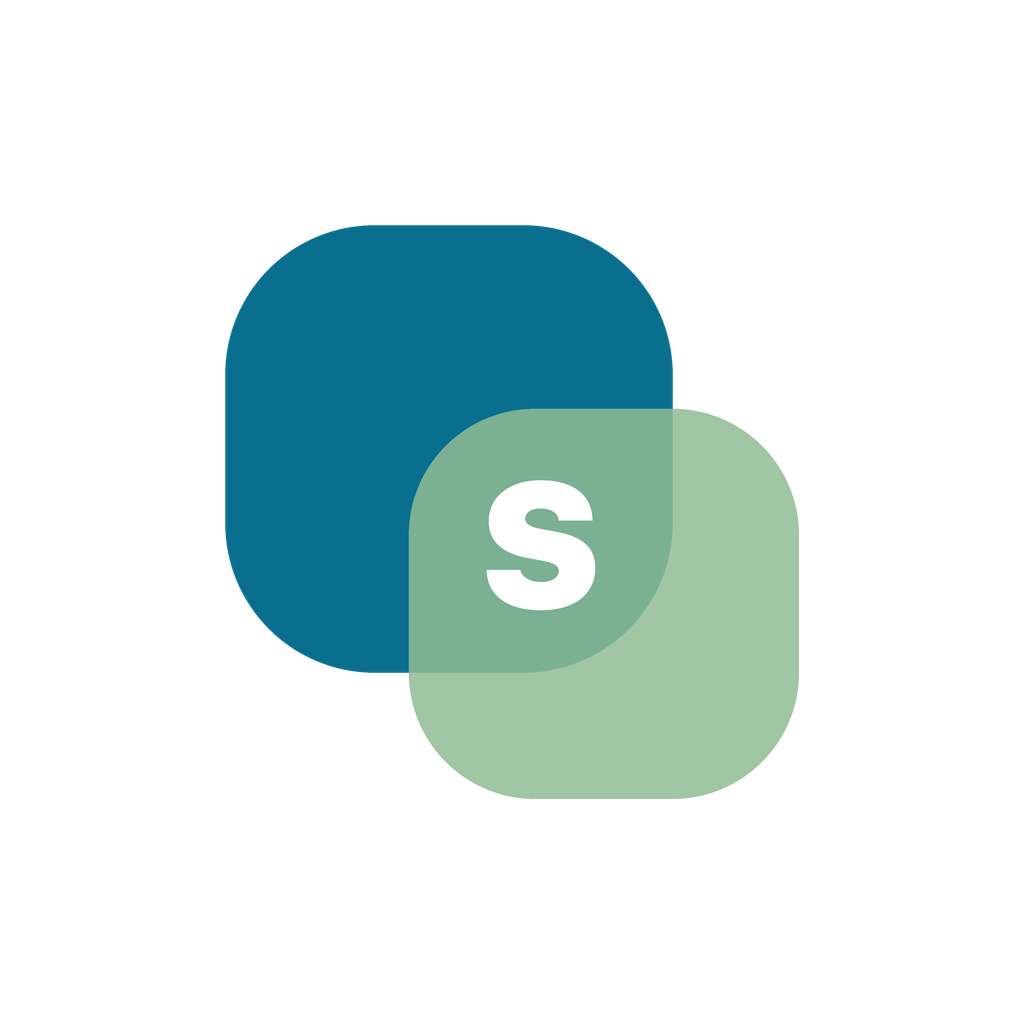
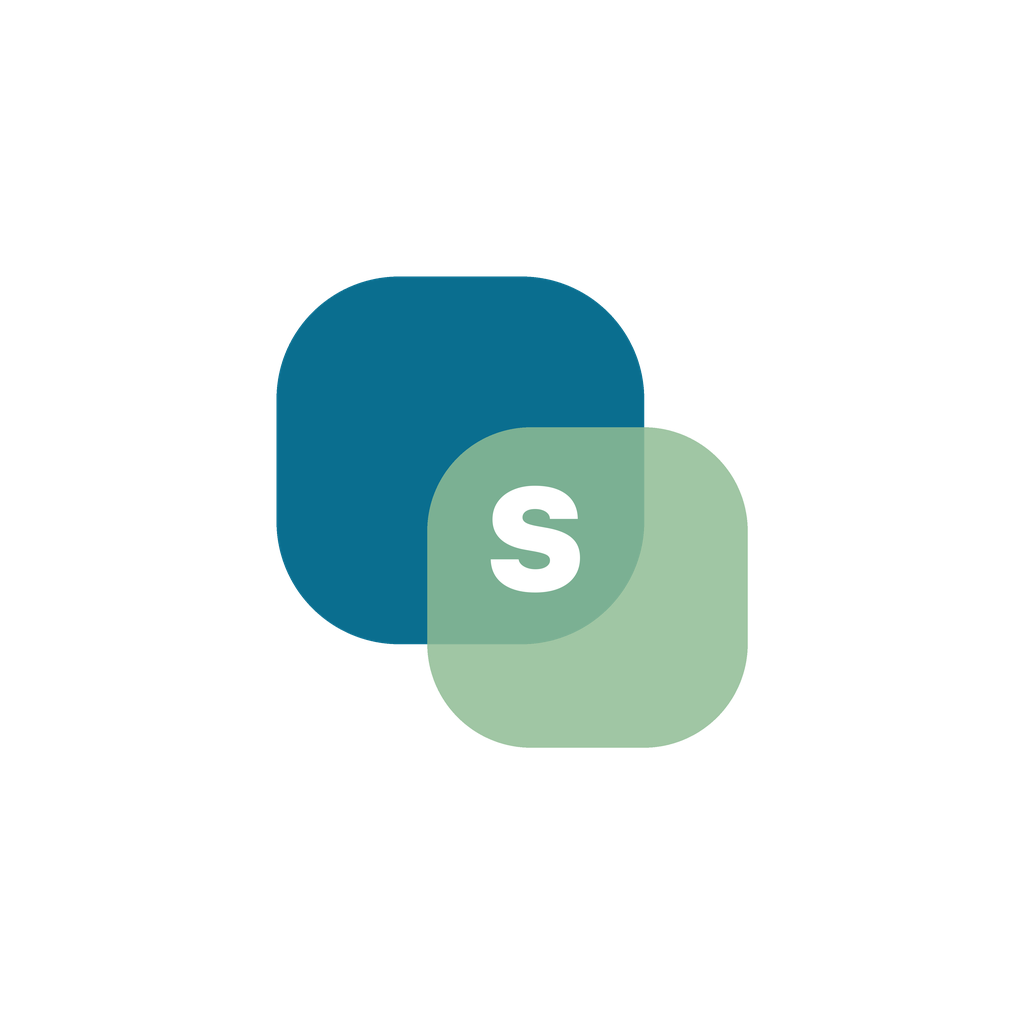
fix: los íconos nativos seguían siendo los del template
El PO rebuildeaba y veía los viejos. No era el build: `ios/` y `android/` ya
existían desde el 17 y el 20 de agosto, y Expo NO regenera los íconos nativos
si la carpeta está creada. Los assets nuevos estaban en assets/images y nunca
llegaban a `mipmap-*` ni al `AppIcon.appiconset`. Resuelto con `expo prebuild`
en las dos plataformas.

Corregido además el ícono adaptativo de Android, que estaba mal dimensionado:
el launcher recorta con la forma que quiera y sólo garantiza un CÍRCULO del 66%
del lienzo. Lo que tiene que entrar en ese círculo no es el lado de la marca
sino su DIAGONAL — al 56% la diagonal daba 79% y la máscara circular le comía
las esquinas a los dos cuadrados. Ahora va al 46% (46 × 1,414 ≈ 65%), y se
verificó simulando las tres máscaras (círculo, squircle, cuadrado).

Changed region(s): [[0.2188, 0.2188, 0.7812, 0.7812]]

diff --git a/scripts/generar-iconos.py b/scripts/generar-iconos.py
@@ -18,10 +18,13 @@ Salidas en assets/images/ (todas 1024 salvo el favicon):
   icon.png                     iOS + general. Opaco y a sangre: iOS aplica su
                                propia máscara, así que NO lleva esquinas
                                redondeadas ni transparencia propias.
-  android-icon-foreground.png  Capa de frente del ícono adaptativo. La marca
-                               ocupa el 60% del lienzo porque Android recorta
-                               con formas distintas según el launcher y sólo el
-                               centro (~66%) está garantizado.
+  android-icon-foreground.png  Capa de frente del ícono adaptativo. Android
+                               recorta con la forma que quiera el launcher y
+                               sólo garantiza un CÍRCULO del 66% del lienzo. La
+                               marca es cuadrada, así que lo que tiene que
+                               entrar en ese círculo es su DIAGONAL: un cuadrado
+                               del 56% tiene diagonal 79% y se le comen las
+                               esquinas. Por eso va al 46% (46 × 1,414 ≈ 65%).
   android-icon-background.png  Capa de fondo, color plano.
   android-icon-monochrome.png  Silueta para los íconos temáticos de Android 13+.
   splash-icon.png              Marca sola sobre transparente.
@@ -57,6 +60,10 @@ CENTRO_S = (0.32 + CUADRADO_A) / 2   # = 0.55
 FONDO = (230, 244, 254, 255)        # #E6F4FE
 
 SUPERMUESTREO = 4                   # se dibuja a 4× y se baja: bordes limpios
+
+# Lado de la marca en el ícono adaptativo de Android, sobre el lienzo. Sale de
+# la zona segura circular del 66%: 0.46 × √2 ≈ 0.65, entra justo.
+ADAPTATIVO = 0.46
 
 
 def fuente(px: int) -> ImageFont.FreeTypeFont:
@@ -128,14 +135,14 @@ def main() -> None:
     base = Image.new("RGBA", (1024, 1024), FONDO)
     guardar(Image.alpha_composite(base, dibujar_marca(1024, 1024 * 0.60)), "icon.png")
 
-    # Android adaptativo: el frente va sobre transparente y más chico, porque
-    # el launcher recorta con la forma que quiera.
-    guardar(dibujar_marca(1024, 1024 * 0.56), "android-icon-foreground.png")
+    # Android adaptativo: el frente va sobre transparente y bastante más chico.
+    # Ver la nota del encabezado: manda la diagonal, no el lado.
+    guardar(dibujar_marca(1024, 1024 * ADAPTATIVO), "android-icon-foreground.png")
     guardar(Image.new("RGBA", (1024, 1024), FONDO), "android-icon-background.png")
 
     # Monocromo (Android 13+): silueta sólida, la letra calada. El sistema la
     # tiñe con el color del tema, así que sólo importa el alfa.
-    mono = dibujar_marca(1024, 1024 * 0.56, con_letra=True,
+    mono = dibujar_marca(1024, 1024 * ADAPTATIVO, con_letra=True,
                          color_a=(0, 0, 0, 255), color_b=(0, 0, 0, 255),
                          color_s=(0, 0, 0, 0))
     guardar(mono, "android-icon-monochrome.png")
